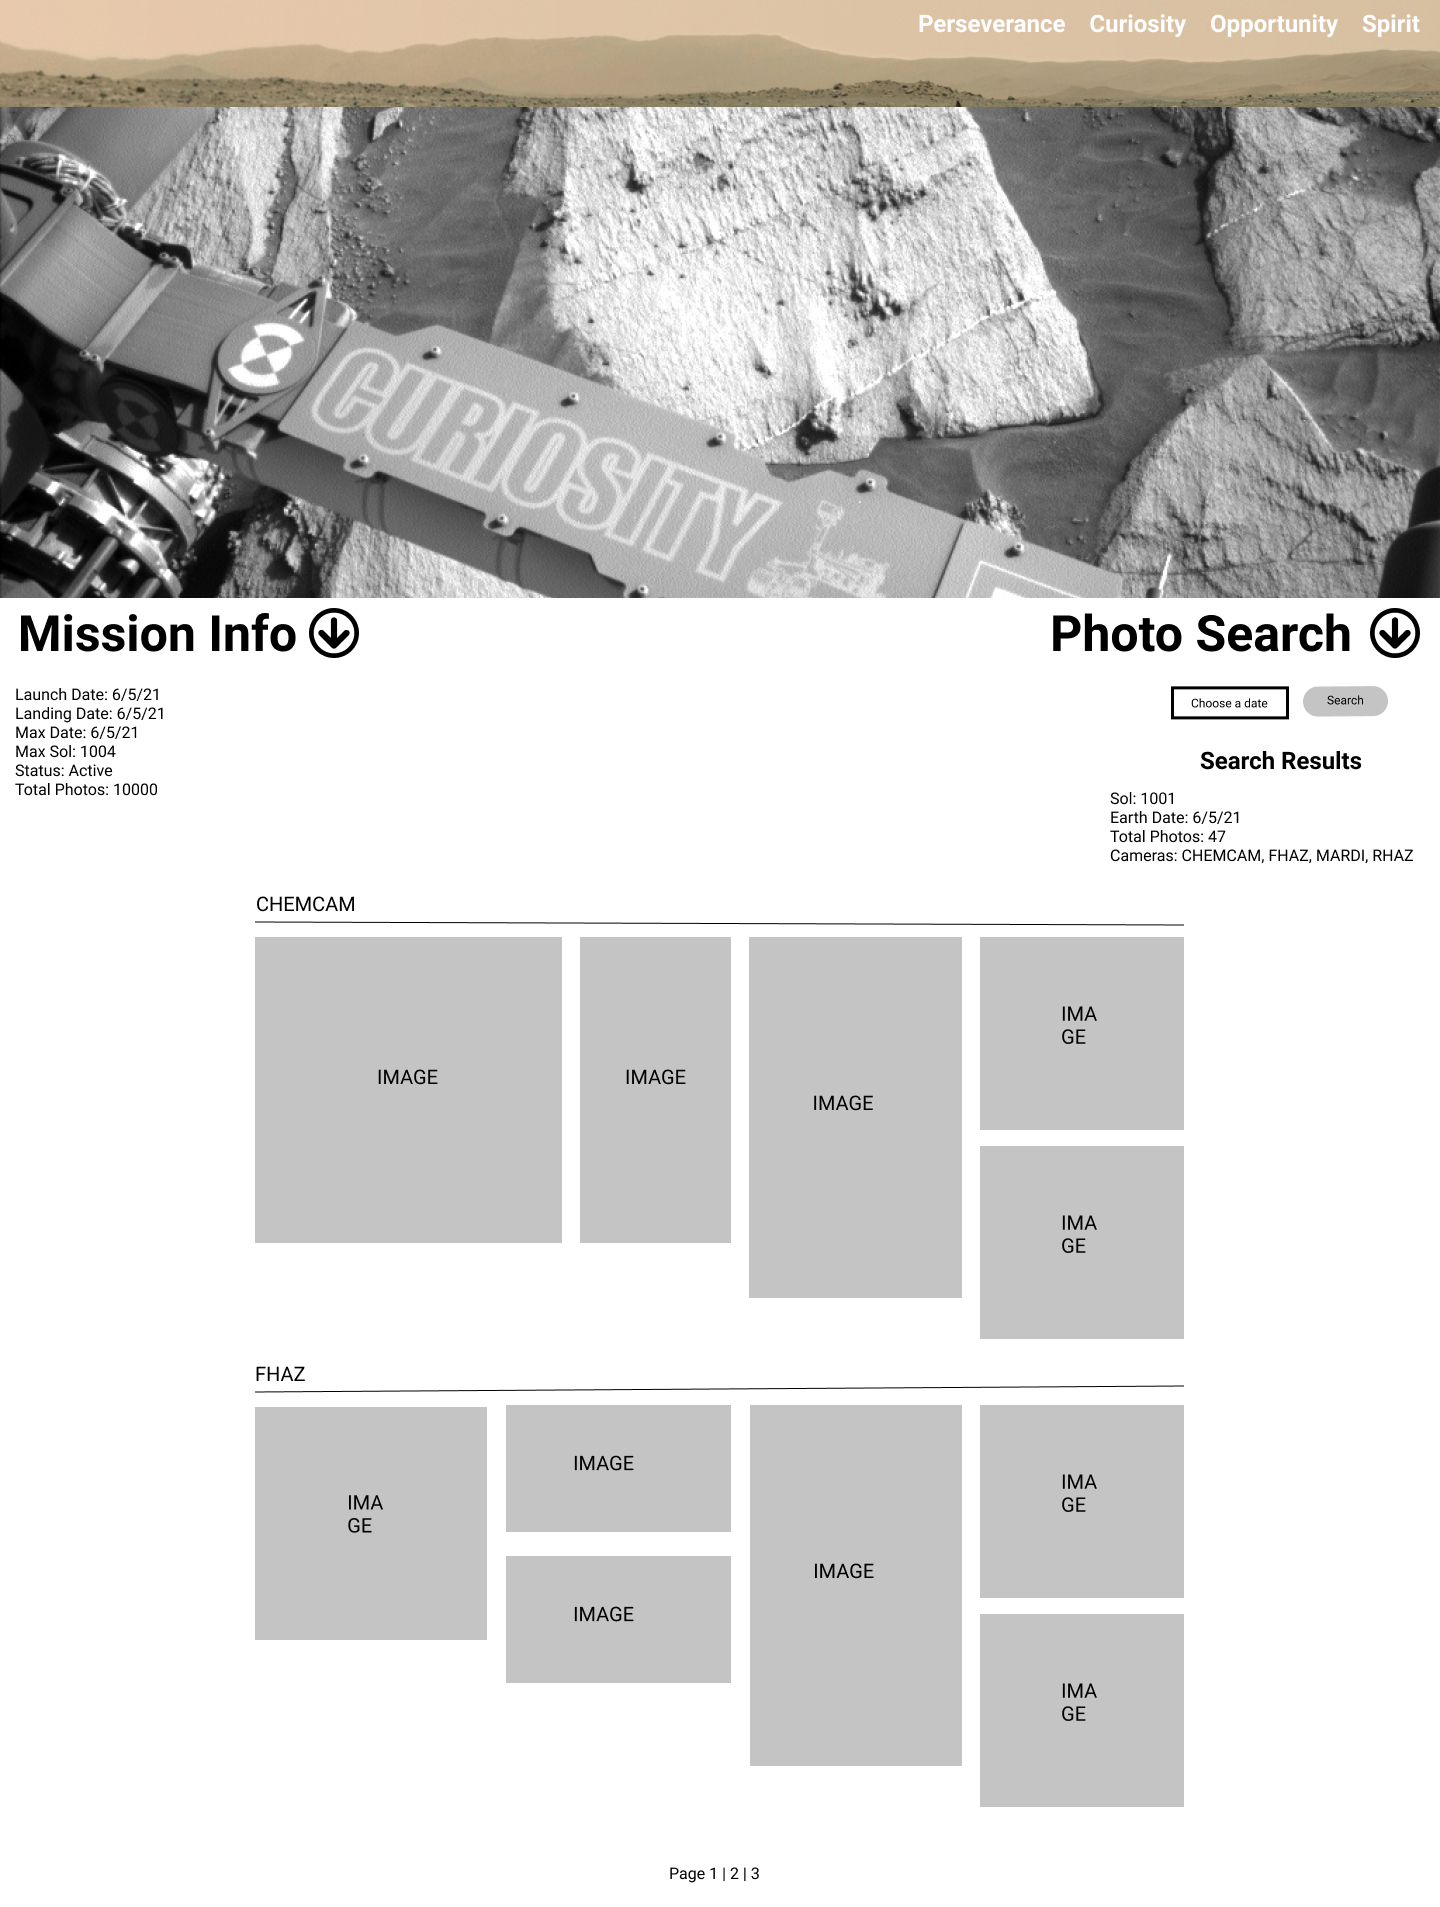
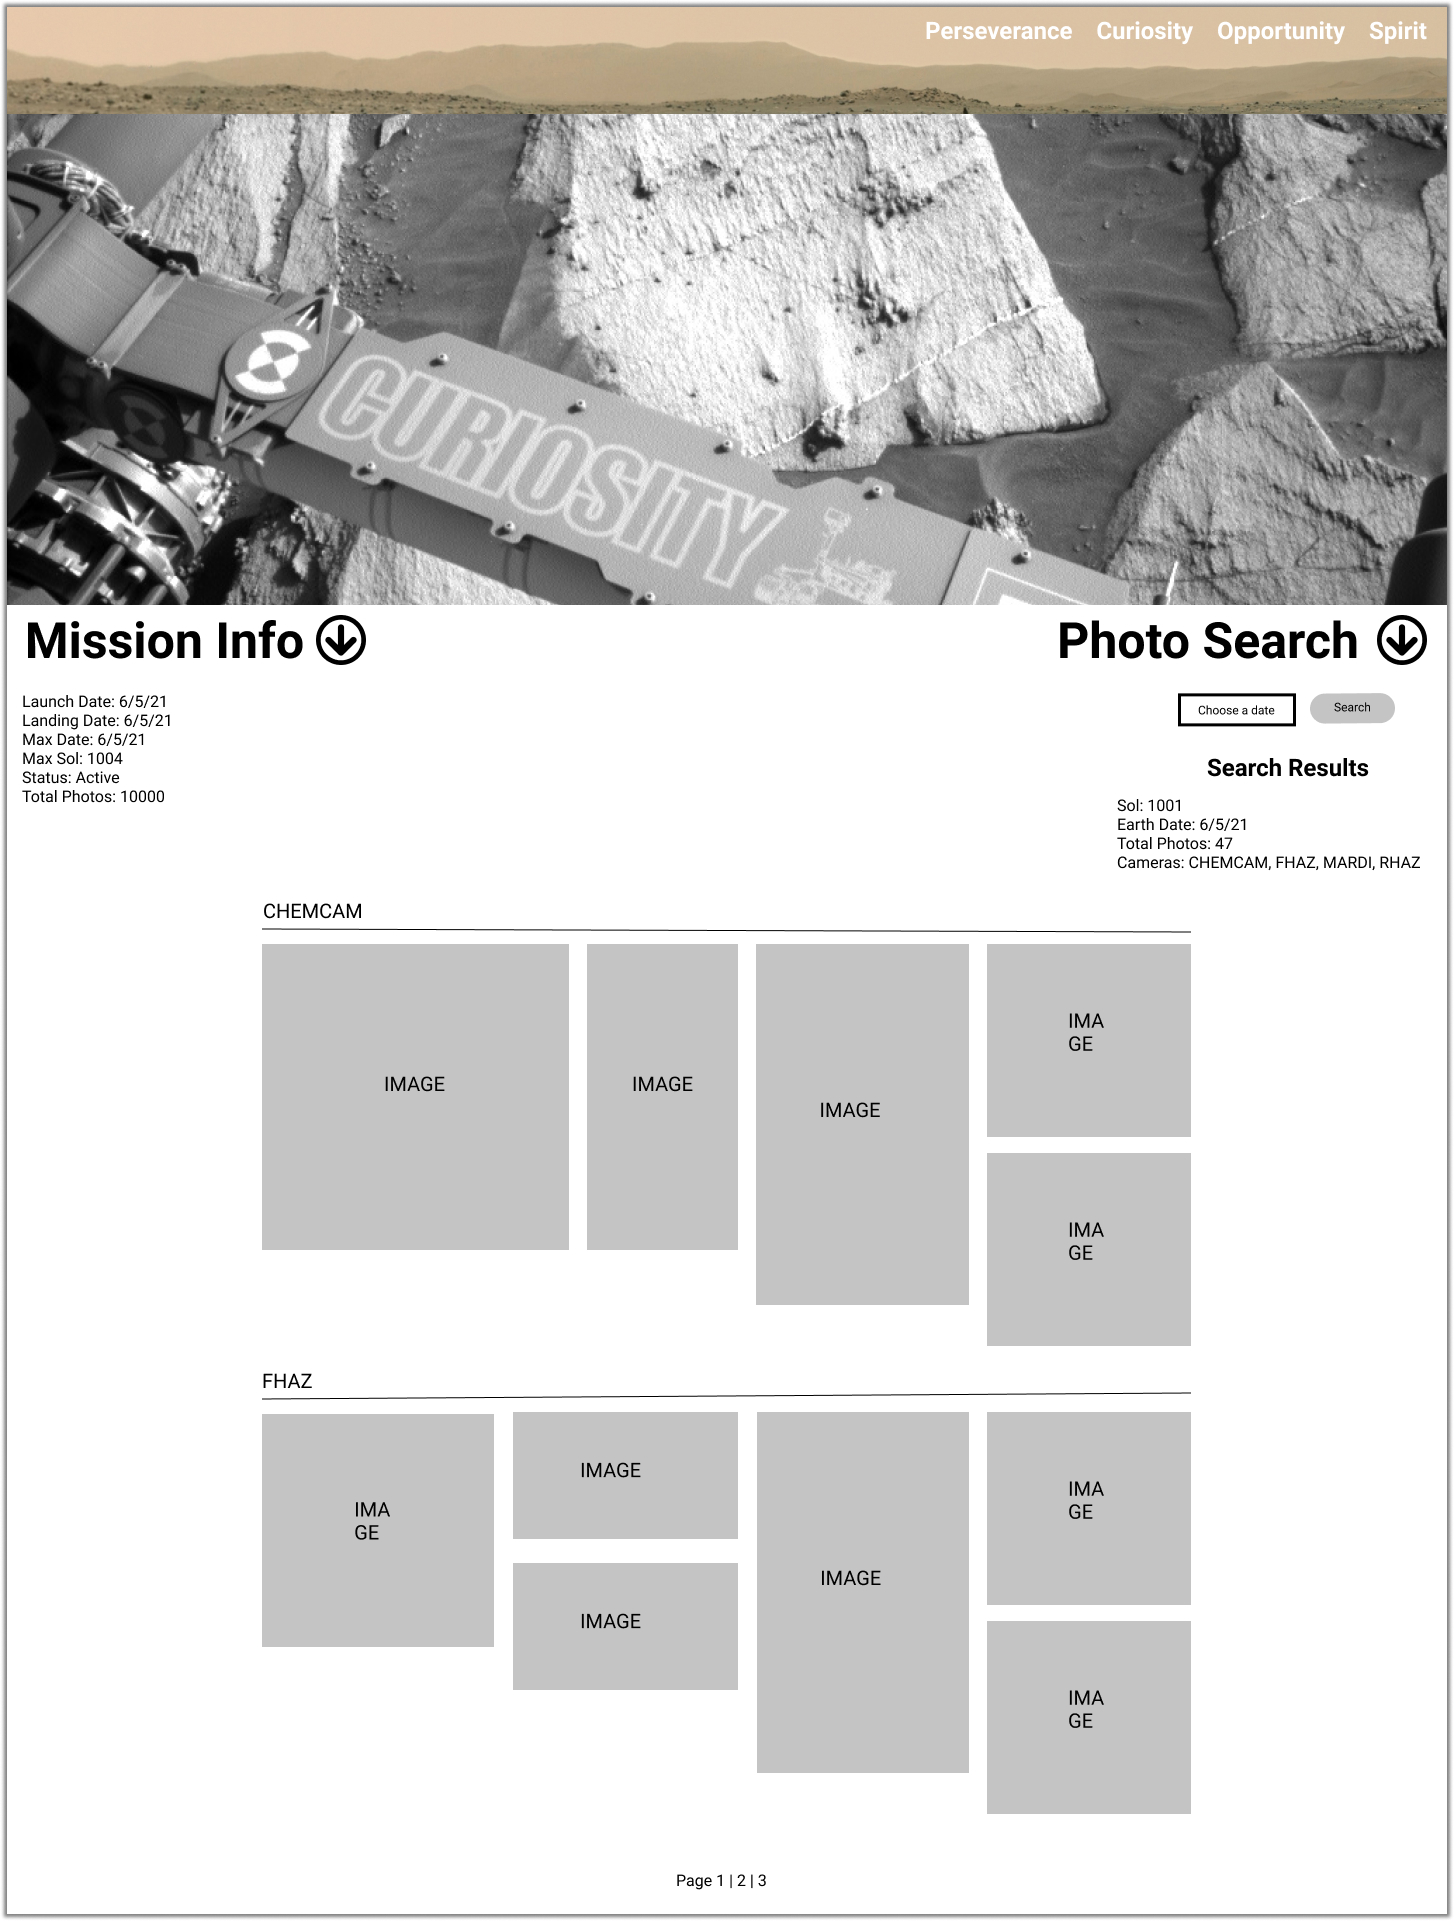
altered images to include a border

diff --git a/README.md b/README.md
@@ -82,9 +82,8 @@ MAIN AREA
 
 - The name of the rover (curiosity in this mockup) and arrow will appear permanently at the bottom of the screen. Clicking arrow will hide/unhide mission info and photo search.
 
-mobile |
----
-![mobile mockup](./mockups/Mobile-RoverPages.jpg) |
+
+![mobile mockup](./mockups/Mobile-RoverPages.jpg)
 
 ### Desktop
 
